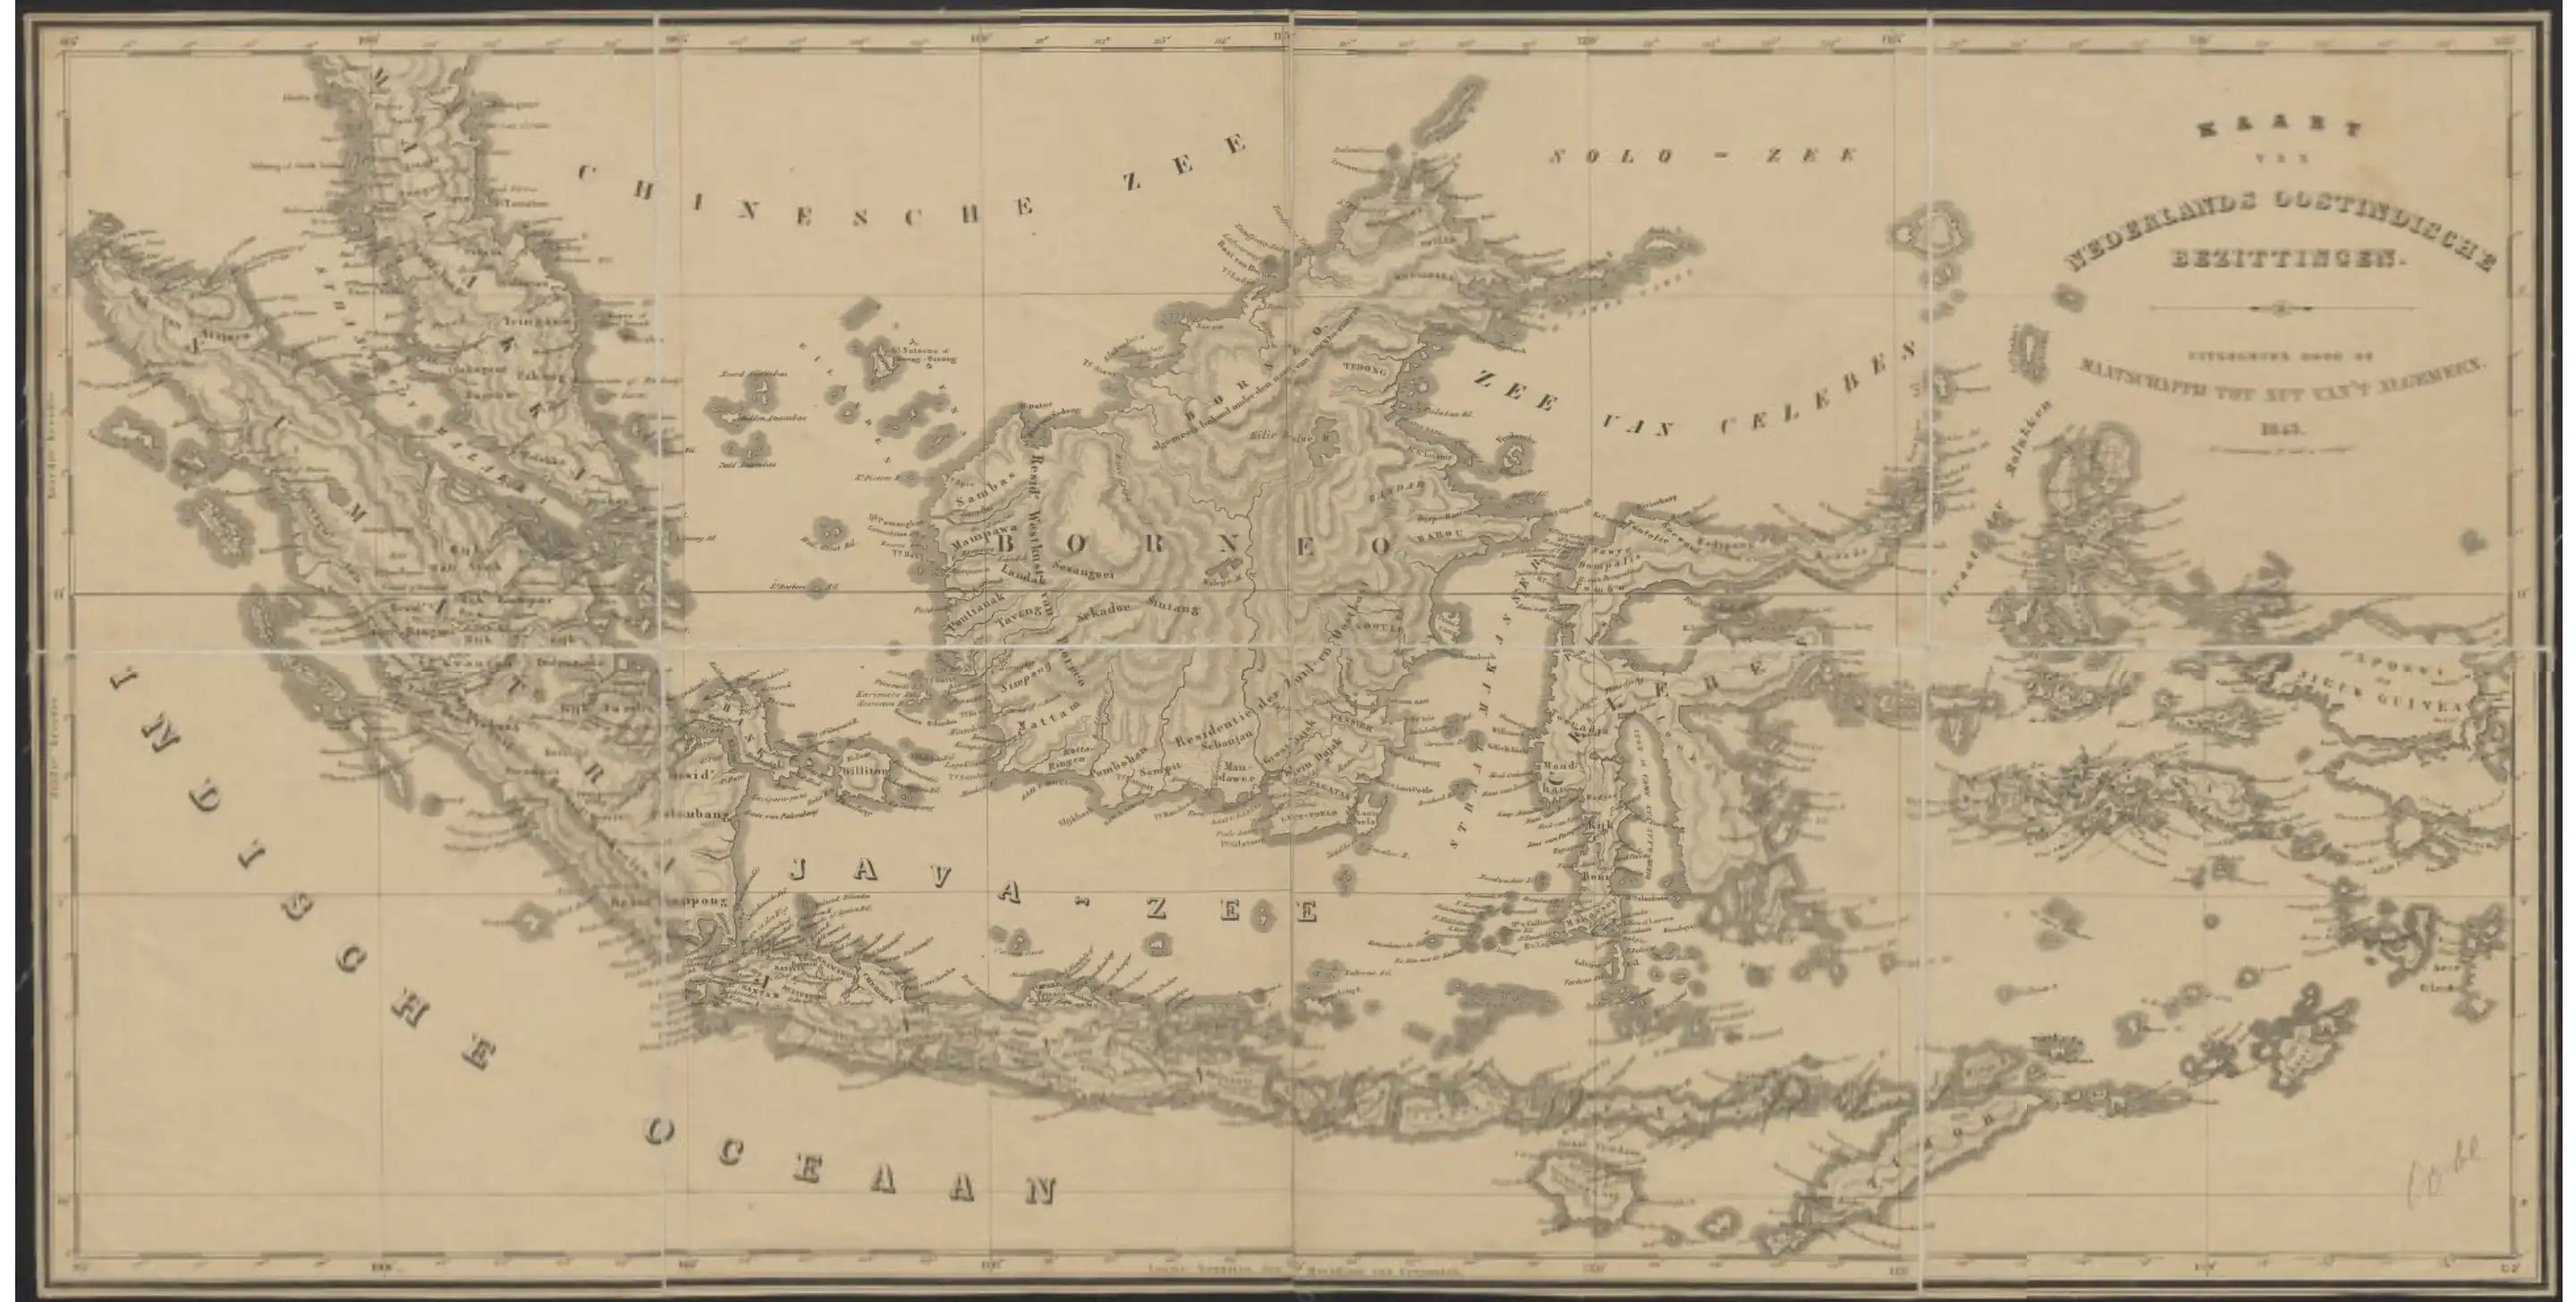
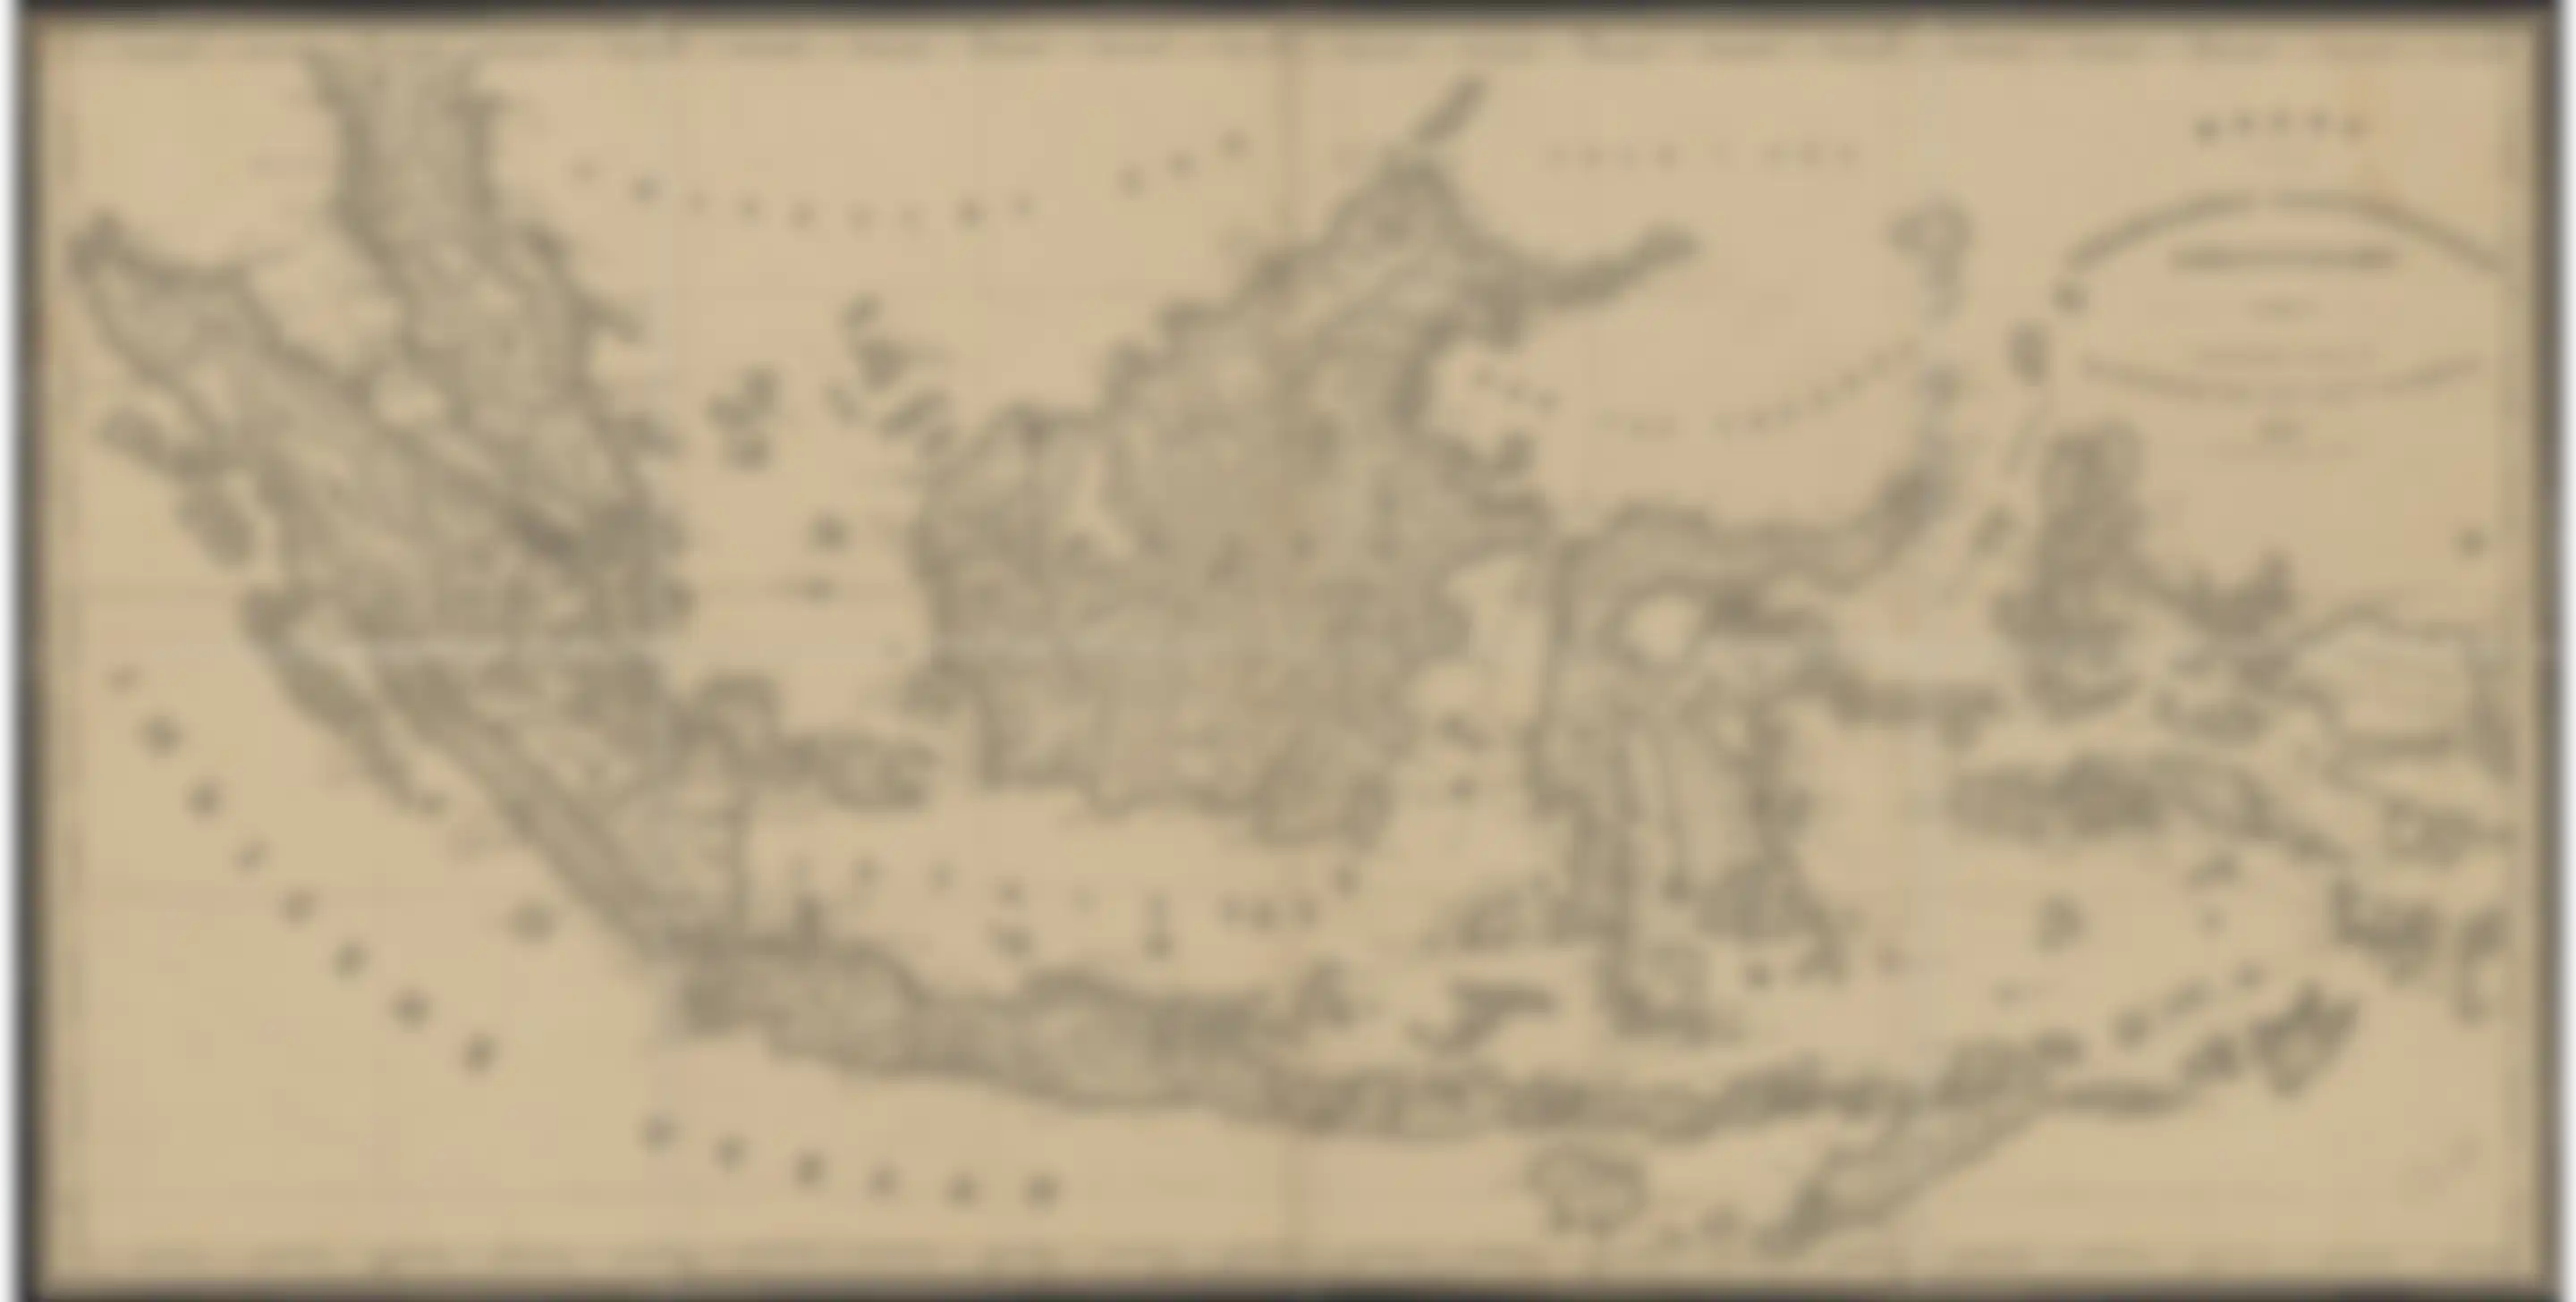
feat: optimised bg static blurring

diff --git a/pages/_app.tsx b/pages/_app.tsx
@@ -5,7 +5,7 @@ import Header from "../components/templates/Header";
 import Footer from "../components/templates/Footer";
 function MyApp({ Component, pageProps }: AppProps) {
   return (
-    <div className="flex flex-col min-h-screen justify-between text-yellow-100 backdrop-blur-sm bg-gray-900 bg-opacity-40">
+    <div className="flex flex-col min-h-screen justify-between text-yellow-100  bg-gray-900 bg-opacity-40">
       <div className="sticky top-0 z-50">
         <div className="bg-opacity-20 backdrop-blur-md shadow-lg">
           <div className="w-11/12 lg:max-w-screen-lg mx-auto">

diff --git a/components/templates/Header.tsx b/components/templates/Header.tsx
@@ -4,7 +4,7 @@ import NavBar from "../navigation/NavBar";
 
 const Header = () => {
   return (
-    <div className="grid grid-cols-2 py-5 z-50">
+    <div className="grid grid-cols-2 py-5 z-10">
       <Logo text="Celluloid Colony"></Logo>
       <NavBar content={NavBarDetails} />
     </div>

diff --git a/styles/globals.css b/styles/globals.css
@@ -7,7 +7,7 @@
     @apply text-yellow-100;
   }
   html, body {
-	@apply bg-map bg-fixed bg-cover bg-top;
+	@apply bg-map bg-cover bg-top -z-10;
   }
   a {
 	@apply text-yellow-100;
